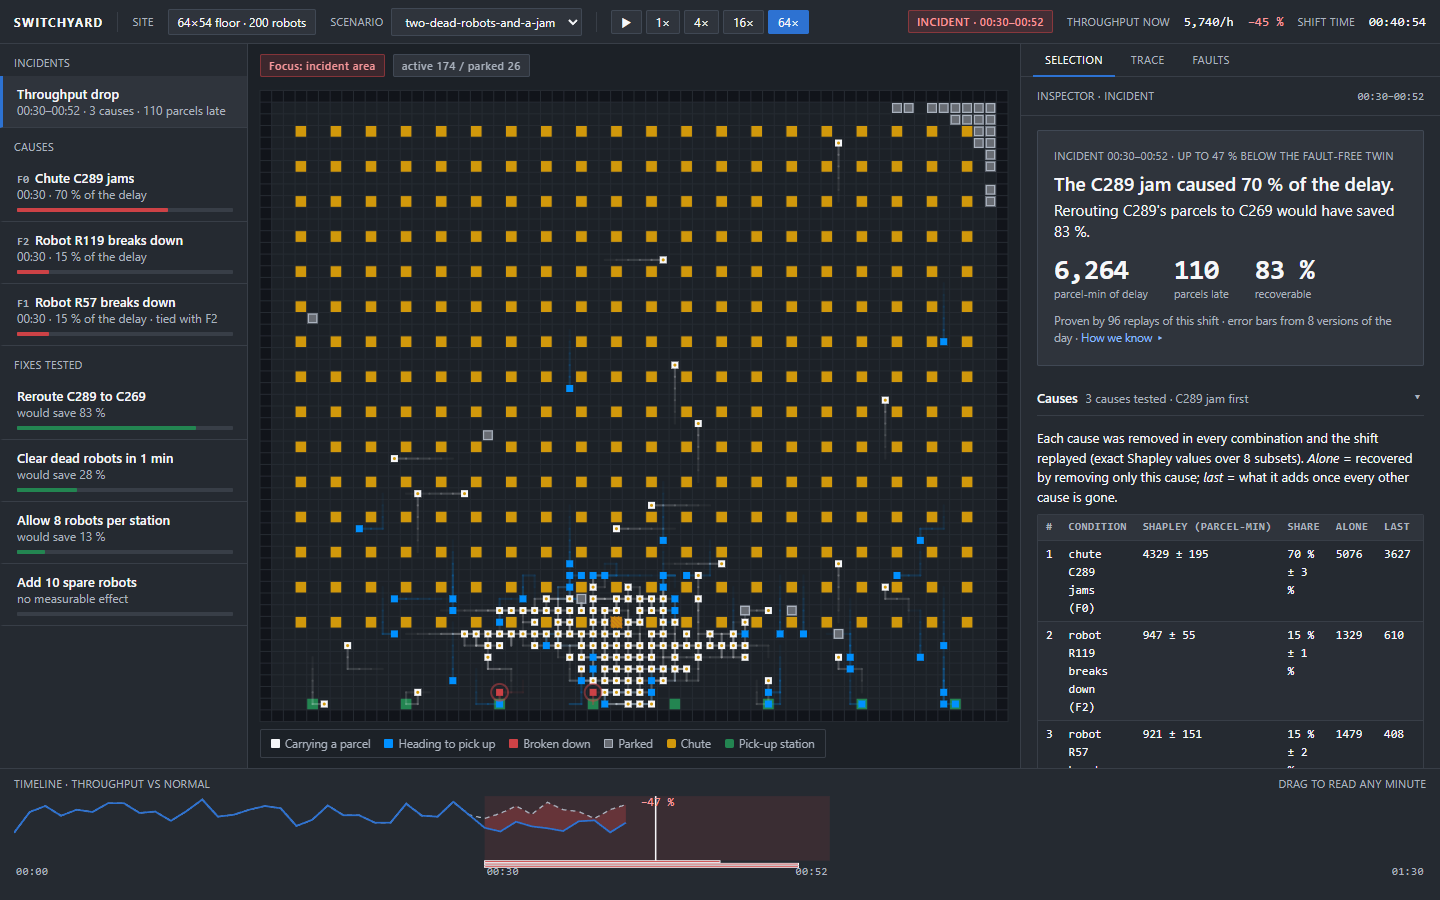
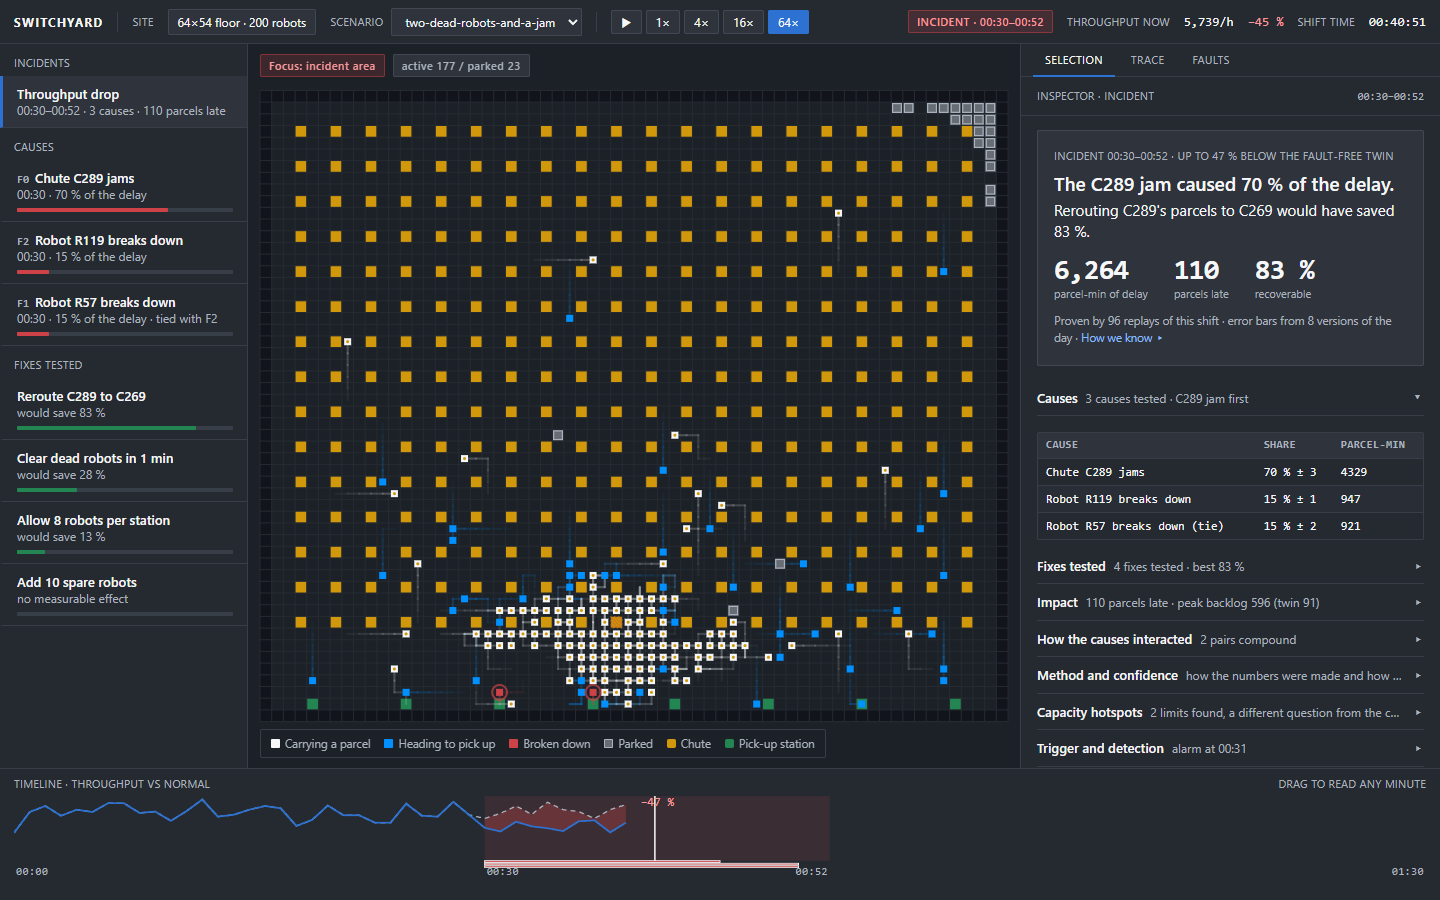
fix: Causes section is a three-column table with plain names; Shapley detail moves to Method (review finding 7 on #46)

diff --git a/viewer/src/ui/console/sectionPlan.ts b/viewer/src/ui/console/sectionPlan.ts
@@ -4,9 +4,17 @@
  * in report jargon, so it is dropped; the remaining sections follow, collapsed.
  */
 import type { ReportSection } from "../reportSections";
+import { capitalise, parseTable } from "./reportData";
 
 const find = (secs: ReportSection[], prefix: string): ReportSection | undefined =>
   secs.find((s) => s.title.toLowerCase().startsWith(prefix));
+
+/** The causes section's body without its "Interaction:" lines (those get a section of their own). */
+const withoutInteractions = (body: string): string =>
+  body
+    .split("\n")
+    .filter((l) => !l.startsWith("Interaction:"))
+    .join("\n");
 
 /** "Interaction: ..." lines of the causes section, as a section of their own. */
 function interactions(causes: ReportSection | undefined): ReportSection | null {
@@ -20,21 +28,32 @@ function interactions(causes: ReportSection | undefined): ReportSection | null {
   };
 }
 
+/** The mockup's three-column causes table: plain name, share with its error bar, parcel-minutes. */
+function causesTable(body: string): string {
+  const rows = parseTable(body).map((r) => {
+    const cond = r["condition"] ?? "";
+    const name = capitalise(cond.replace(/\s*\(F\d+\)/, "").replace(/\s*\(tie[^)]*\)/, "").trim());
+    const tie = /\(tie/.test(cond) ? " (tie)" : "";
+    const share = (r["share"] ?? "").replace(/\s*%\s*±\s*(\d+)\s*%/, " % ± $1");
+    const pm = (r["shapley (parcel-min)"] ?? "").replace(/\s*±.*/, "");
+    return `| ${name}${tie} | ${share} | ${pm} |`;
+  });
+  return rows.length === 0 ? body : ["| Cause | Share | Parcel-min |", "|---|---|---|", ...rows].join("\n");
+}
+
 export function inspectorSections(all: ReportSection[]): ReportSection[] {
   const causes = find(all, "root causes");
-  const withoutInteractions = causes
-    ? { ...causes, title: "Causes", open: true, body: causes.body.split("\n").filter((l) => !l.startsWith("Interaction:")).join("\n") }
-    : undefined;
   const fixes = find(all, "what would have helped");
   const impact = find(all, "impact");
   const method = find(all, "method");
   const used = new Set([causes, fixes, impact, method, find(all, "summary")]);
   const planned = [
-    withoutInteractions,
+    causes && { ...causes, title: "Causes", open: true, body: causesTable(causes.body) },
     fixes && { ...fixes, title: "Fixes tested", open: false },
     impact && { ...impact, open: false },
     interactions(causes) ?? undefined,
-    method && { ...method, open: false },
+    // The Shapley explanation and the Alone/Last columns live in Method, where a reader looks for how it was made.
+    method && { ...method, open: false, body: `${method.body}\n\n**How the shares were made.**\n\n${withoutInteractions(causes?.body ?? "")}` },
   ].filter((s): s is ReportSection => s !== undefined);
   return [...planned, ...all.filter((s) => !used.has(s)).map((s) => ({ ...s, open: false }))];
 }

diff --git a/viewer/src/ui/console/sectionPlan.test.ts b/viewer/src/ui/console/sectionPlan.test.ts
@@ -16,6 +16,13 @@ describe("inspectorSections", () => {
     expect(secs[3]!.teaser).toBe("2 pairs compound");
     expect(secs[3]!.body).toContain("compound");
   });
+  it("shows three plain columns in Causes and moves the detail into Method", () => {
+    expect(secs[0]!.body.split("\n")[0]).toBe("| Cause | Share | Parcel-min |");
+    expect(secs[0]!.body).toContain("| Chute C289 jams | 70 % ± 3 | 4329 |");
+    expect(secs[0]!.body).not.toMatch(/\(F\d\)|Shapley|Alone/);
+    expect(secs[4]!.body).toContain("Shapley");
+    expect(secs[4]!.body).toContain("Alone");
+  });
   it("keeps the other report sections, collapsed, after the five", () => {
     expect(secs.length).toBeGreaterThan(5);
     expect(secs.slice(5).every((s) => !s.open)).toBe(true);
